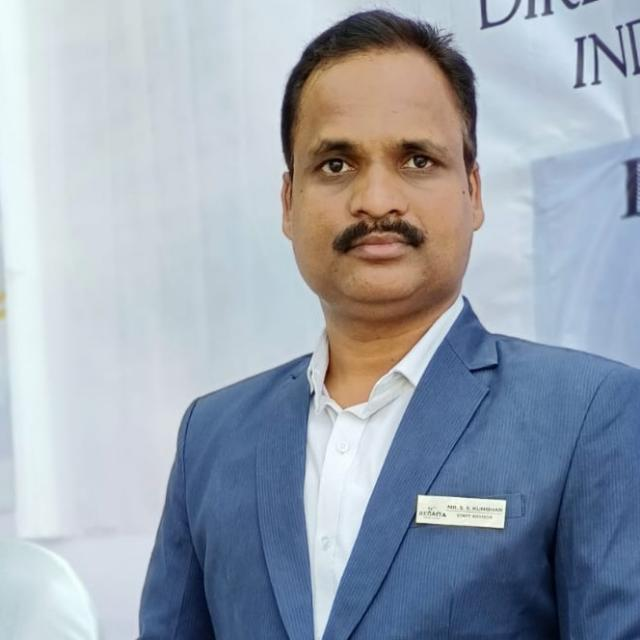
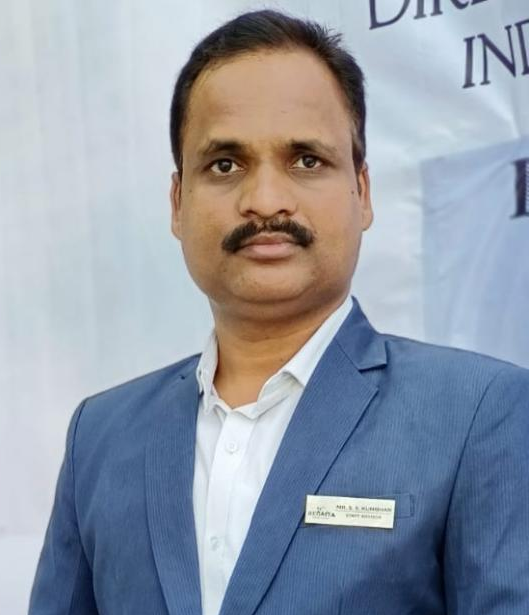
Updated the Committee page and added the current highlights for Rise of the Fittest and Moonlight Punting Events

diff --git a/src/app/committee/page.tsx b/src/app/committee/page.tsx
@@ -6,7 +6,7 @@ const Faculty = [
     {
         name: "Dr. Sunil Bhirud",
         post: "President",
-        img_path: "president.png",
+        img_path: "bhirud_sir.jpg",
         mail: "vc.coeptech@coeptech.ac.in",
     },
     {
@@ -35,10 +35,10 @@ const Faculty = [
         mail: "ssk.comp@coeptech.ac.in",
     },
     {
-        name: "Dr. M. U. Khobragade",
+        name: "Dr. J. Dadge",
         post: "Faculty Advisor",
-        img_path: "faculty_advisor_2.png",
-        mail: "muk.mech@coeptech.ac.in",
+        img_path: "dadge_sir.jpeg",
+        mail: "jwt.physics@coeptech.ac.in",
     },
     {
         name: "Dr. P. S. Shinde",
@@ -65,6 +65,7 @@ const BMC = [
         name: "Kartik Kshirsagar",
         post: "General Secretary",
         mail: "ukandekt22.instru@coeptech.ac.in",
+        linkedin: "https://www.linkedin.com/in/kartiksiliconenthusiast/?originalSubdomain=in",
         img_path: "secretary.png",
     },
     {
@@ -72,6 +73,8 @@ const BMC = [
         post: "Auditor",
         mail: "bhagwatdm22.mech@coeptech.ac.in",
         img_path: "auditor.png",
+        linkedin: "https://www.linkedin.com/in/darshan-bhagwat-70a18525b?utm_source=share&utm_campaign=share_via&utm_content=profile&utm_medium=android_app",
+        instagram: "https://www.instagram.com/bhagwat.darshan.11?igsh=MXYxaTFrenpmcHJocA==",
     },
     {
         name: "Yuvraj Fulsoundar",
@@ -81,76 +84,92 @@ const BMC = [
     },
 
     {
-        name: "Parth Yewale",
-        post: "kayaking and Canoeing Secretary",
-        mail: "yewalepm21.comp@coeptech.ac.in",
-        img_path: "kayaking_canoeing_secretary.jpg",
-        linkedin: "https://www.linkedin.com/in/parth-yewale-6157ba22a",
-        instagram: "https://www.instagram.com/parthhh.yx",
-    },
-    {
-        name: "Kshitij Prashant Nazirkar",
-        post: "Punt Formation Secretary",
-        mail: "nazirkarkp21.mfg@coeptech.ac.in",
-        img_path: "punt_formation_secretary.jpg",
-        linkedin: "https://www.linkedin.com/in/kshitij-nazirkar-5537a5231",
-        instagram: "https://www.instagram.com/kshitijnazirkar",
-    },
-    {
-        name: "Anushka Mane",
-        post: "B.Tech Ladies Representative",
-        mail: "maneav22.civil@coeptech.ac.in",
-        img_path: "btech_lr.jpg",
-        linkedin: "https://www.linkedin.com/in/anushka-mane-10b7a6283",
-        instagram: "https://www.instagram.com/mane_anushka_15",
-    },
-    {
         name: "Shreyas Patil",
+        post: "kayaking and Canoeing Secretary",
+        mail: "patilss22.civil@coeptech.ac.in",
+        img_path: "ty_kr copy.jpg",
+        linkedin: "https://www.linkedin.com/in/shreyas-patil-37a18425b?utm_source=share&utm_campaign=share_via&utm_content=profile&utm_medium=android_app",
+        instagram: "https://www.instagram.com/shreyaspatil1277?igsh=YjhwZzJ1amxjdm8=",
+    },
+    {
+        name: "Smruti Pachpute",
+        post: "Punt Formation Secretary",
+        mail: "pachputesj22.comp@coeptech.ac.in",
+        img_path: "punt_formation_secretary.jpg",
+        linkedin: "https://www.linkedin.com/in/smruti-pachpute-45006b258/?originalSubdomain=in",
+    },
+    {
+        name: "Rajnandan Patil",
+        post: "Rowing Secretary ",
+        mail: "patilrs22.civil@coeptech.ac.in ",
+        img_path: "rowing_sec.jpg",
+        linkedin: "https://www.linkedin.com/in/rajnandan-patil-4a48a1277?utm_source=share&utm_campaign=share_via&utm_content=profile&utm_medium=android_app",
+        instagram: "https://www.instagram.com/patilrajnandan_2133?igsh=MWFkdXM2ZGNvajB3ZA==",
+    },
+    {
+        name: "Prathmesh Lasankar",
+        post: "Telematches Secretary",
+        mail: "prathmeshpl23.rai@coeptech.ac.in",
+        img_path: "telematches_sec.png",
+        linkedin: "https://www.linkedin.com/in/prathmesh-lasankar-035056376",
+        instagram: "https://www.instagram.com/crankymystic11854",
+    },
+    {
+        name: "Prem Dupargude",
         post: "T.Y kayaking Representative",
-        mail: "patilss22.civil@coeptech.ac.inn",
+        mail: "dupargudepb23.meta@coeptech.ac.in",
         img_path: "ty_kr.jpg",
-        instagram:
-            "https://www.instagram.com/invites/contact/?igsh=o6hqytt4bwfy&utm_content=p6aq5hq",
-    },
-    {
-        name: "kartik",
-        post: "T.Y Rowing Representative",
-        mail: "ukandekt22.instru@coeptech.ac.in",
-        img_path: "ty_rr.jpg",
-        linkedin: "https://www.linkedin.com/in/kartikinstrumentationcontrol",
-        instagram: "https://www.instagram.com/k_a_r_t_i_k_0108",
-    },
-    {
-        name: "Sahil Wagde",
-        post: "Design Head",
-        mail: "wagdesa22@elec@coeptech.ac.in",
-        img_path: "design_head.jpg",
-        linkedin: "https://www.linkedin.com/in/sahil-wagde-18569624a",
-        instagram: "https://www.instagram.com/_sahil_wagde_",
-    },
-    {
-        name: "Satvik Gaikwad",
-        post: "Web Development Head",
-        mail: "gaikwadss22.extc@coeptech.ac.in",
-        img_path: "web_head.jpg",
-        linkedin: "https://www.linkedin.com/in/satvikg7",
-        instagram: "https://www.instagram.com/satvik_gaikwad_7",
-        github: "https://github.com/satvikg7",
-    },
-    {
-        name: "Anushka Tanpure",
-        post: "S.Y. Ladies Representative",
-        mail: "tanpureav23.rai@coeptech.ac.in",
-        img_path: "sy_lr.jpg",
-        linkedin: "https://www.linkedin.com/in/anushka-tanpure-ab3877291",
+        linkedin: "https://www.linkedin.com/in/prem-dupargude-691223339?utm_source=share&utm_campaign=share_via&utm_content=profile&utm_medium=android_app",
+        instagram:"https://www.instagram.com/prem_b_l_14?igsh=a212cjV5MTJwaTdw",
     },
     {
         name: "Snehal Yengandul",
-        post: "S.Y. Rowing Representative",
-        mail: "yengandulsv23.mech@coeptech.ac.in",
+        post: "T.Y Rowing Representative",
+        mail: "yengandulsv23.mech@coeptech.ac.in ",
         img_path: "sy_rr.jpg",
-        linkedin: "https://www.linkedin.com/in/snehal-yengandul-83ba1b283",
+        linkedin: "https://www.linkedin.com/in/snehal-yengandul-83ba1b283?utm_source=share&utm_campaign=share_via&utm_content=profile&utm_medium=android_app",
         instagram: "https://www.instagram.com/_snehal.04_",
+    },
+    {
+        name: "Payal Kotkar",
+        post: "Web Development Head",
+        mail: "kotkarpr23.comp@coeptech.ac.in",
+        img_path: "web_head.jpeg",
+        linkedin: "https://www.linkedin.com/in/payalkotkar",
+        instagram: "https://www.instagram.com/_payalk28_/",
+        github: "https://github.com/Payalcoep",
+    },
+    {
+        name: "Darshan Laddha",
+        post: "Design and media Head",
+        mail: "laddhads23.mfg@coeptech.ac.in",
+        img_path: "design_head.jpeg",
+        linkedin: "https://www.linkedin.com/in/darshan-laddha-071a10319?utm_source=share&utm_campaign=share_via&utm_content=profile&utm_medium=android_app",
+        instagram: "https://www.instagram.com/darshanladdha745?igsh=MXV3cnEwZmh0dDE4bw==",
+    },
+    {
+        name: "Mansi Gavande",
+        post: "S.Y. Ladies Representative",
+        mail: "sandipgm24.rai@coeptech.ac.in",
+        img_path: "sy_lr.jpeg",
+        linkedin: "https://www.linkedin.com/in/mansi-gavande-641585324",
+        instagram: "https://www.instagram.com/mansi_gavande_369",
+    },
+    {
+        name: "Neha Bhagwat",
+        post: "S.Y. Rowing Representative",
+        mail: "bhagwatns24.elec@coeptech.ac.in",
+        img_path: "",
+        linkedin: "https://www.linkedin.com/in/neha-bhagwat-46b176375?utm_source=share&utm_campaign=share_via&utm_content=profile&utm_medium=ios_app",
+        instagram: "https://www.instagram.com/_nehabhagwat?igsh=MWgwY3NhMnlndDNzNg%3D%3D&utm_source=qr",
+    },
+    {
+        name: "Abhiram Pise ",
+        post: "S.Y. KB Representative",
+        mail: "piseas24.plan@coeptech.ac.in",
+        img_path: "sy_kb_repre.jpg",
+        linkedin: "https://www.linkedin.com/in/abhiram-pise-0449b7274?utm_source=share&utm_campaign=share_via&utm_content=profile&utm_medium=android_app",
+        instagram: "https://www.instagram.com/abhiram_.1705?igsh=MzFyanMyNzlkYTA=",
     },
 ];
 

diff --git a/src/components/highlights.tsx b/src/components/highlights.tsx
@@ -117,6 +117,19 @@ const events = {
             </div>
         </div>
     ),
+    rise_of_the_fittest: (
+        <div className="bg-[#F5F5F7] p-4 md:p-8 rounded-3xl m-2">
+            <p className="max-w-3xl mx-auto font-serif text-base text-neutral-600 md:text-2xl">
+                COEP celebrated Khande Navami Pooja with an energetic Gym Competition - Rise of the Fittest at the Boat Club, where BTech and MTech students competed in teams through challenges like rowing, push-ups, pull-ups, squats, and skipping. The event showcased incredible fitness, teamwork, and festive spirit, with exciting prizes and refreshments for the winners.
+            </p>
+            <div className="flex justify-center">
+                <InstagramEmbed
+                    url="https://www.instagram.com/p/DFx_F7Iozp9/"
+                    width={328}
+                />
+            </div>
+        </div>
+    ),
     jalmaitri_camp: (
         <div className="bg-[#F5F5F7] p-4 md:p-8 rounded-3xl m-2">
             <p className="max-w-3xl mx-auto font-serif text-base text-neutral-600 md:text-2xl">
@@ -213,6 +226,19 @@ const events = {
 };
 
 const data = [
+    
+    {
+        date: "07/10/2025",
+        title: "Moonlight Punting",
+        src: "/assets/moonlight_punting/moonlight.jpg",
+        content: events["moonlight_punting"],
+    },
+    {
+        date: "01/10/2025",
+        title: "Rise Of The Fittest",
+        src: "/assets/rise_of_the_fittest/rise.jpg",
+        content: events["rise_of_the_fittest"],
+    },
     {
         date: "",
         title: "",
@@ -248,11 +274,5 @@ const data = [
         title: "Deepotsav",
         src: "/assets/deepotsav/deepotsav_1.jpg",
         content: events["deepotsav"],
-    },
-    {
-        date: "16/10/2024",
-        title: "Moonlight Punting",
-        src: "/assets/moonlight_punting/moonlight_punting_1.jpg",
-        content: events["moonlight_punting"],
     },
 ];
